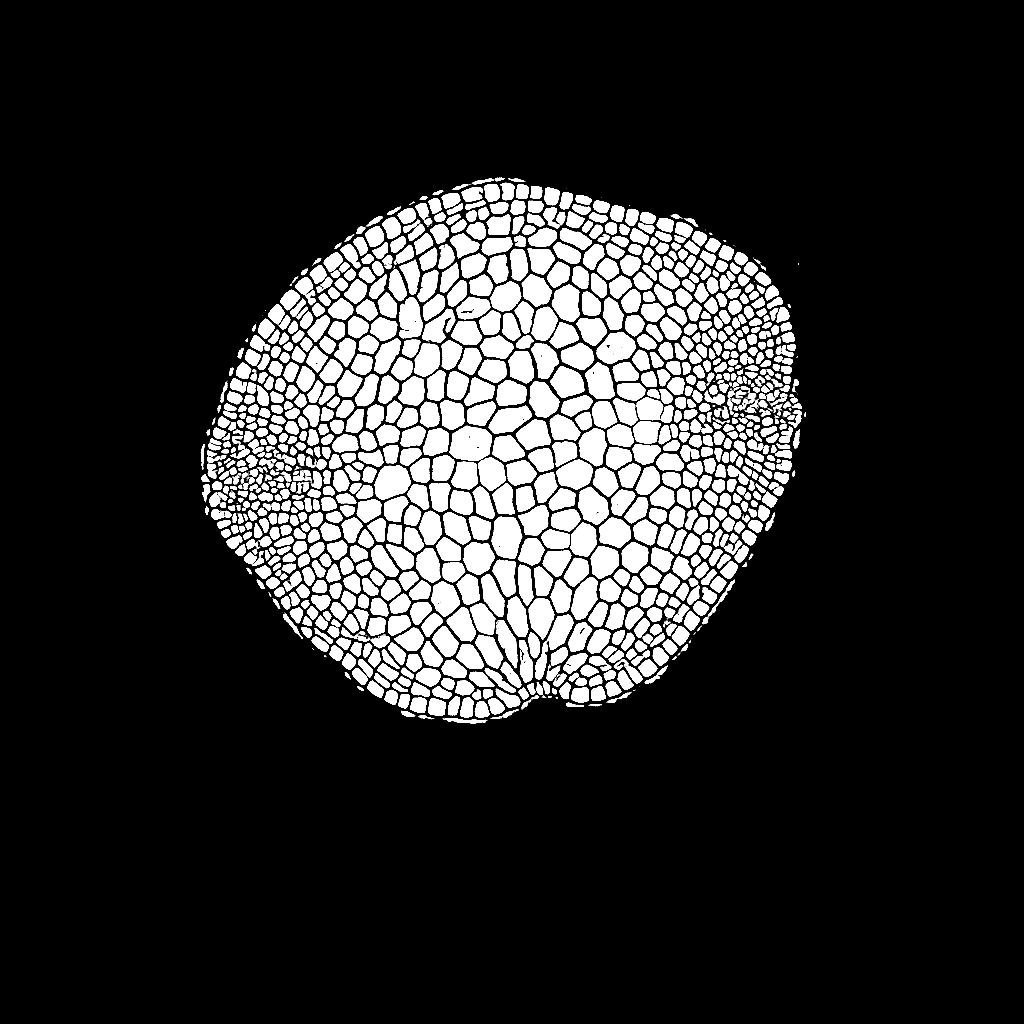
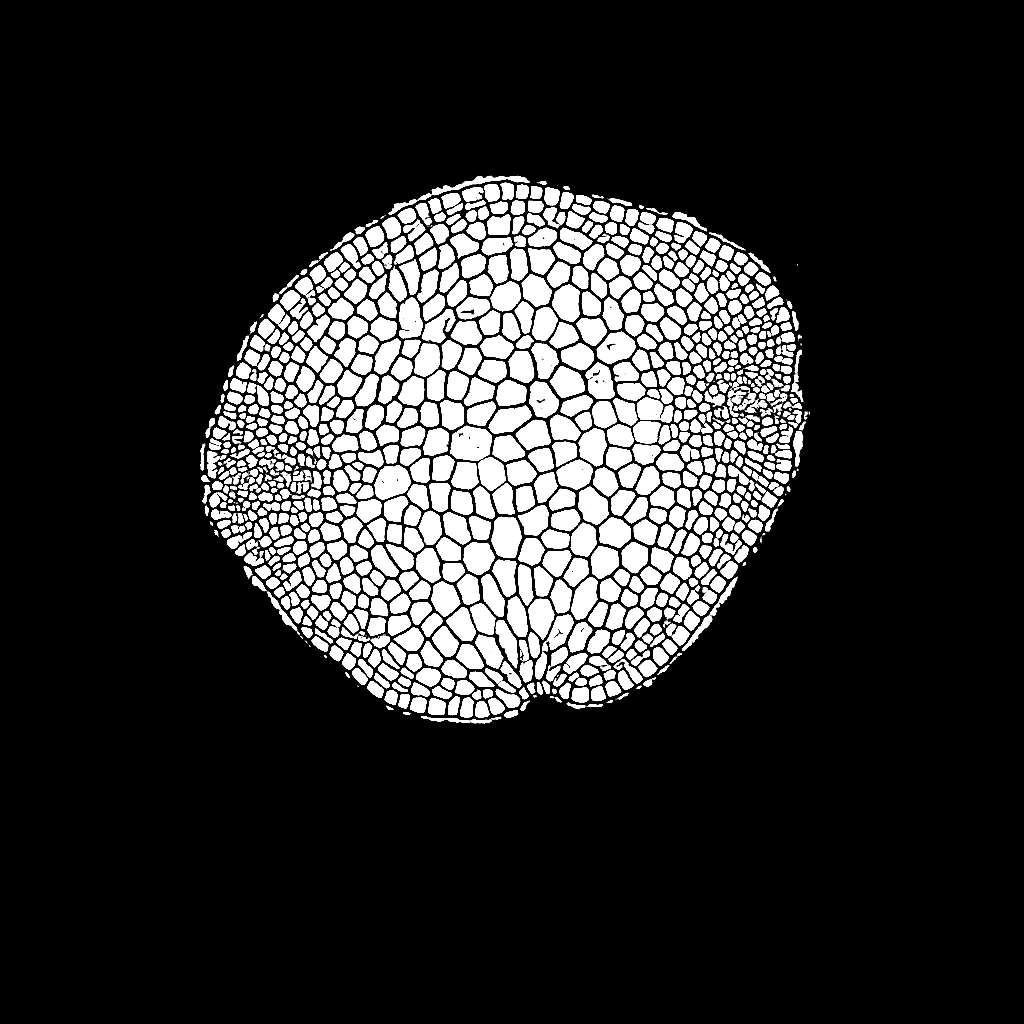
a

diff --git a/model.py b/model.py
@@ -254,7 +254,7 @@ class WESPE():
             os.makedirs(varianceFolder)
             cv2.imwrite(os.path.join(varianceFolder, 'original.png'), image)
             for i in range(2):
-                noisy_img = (noisy('gauss', image, var = 0) - 127.5) / 127.5
+                noisy_img = (noisy('gauss', image, var = 20) - 127.5) / 127.5
                 testImg_patches = load_test_img_patches(noisy_img, patchSize = self.patchSize, kSize = self.kSize)
                 print('Enhancing image {}...'.format(name + '_' + str(i)))
                 predictions = self.G(testImg_patches, training=False).numpy()[:, self.kSize//2:-(self.kSize//2),self.kSize//2:-(self.kSize//2) :]
